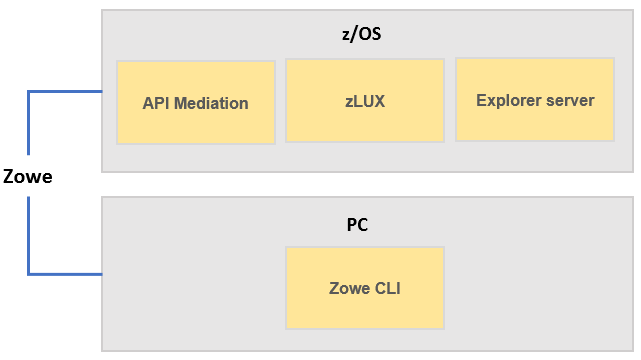
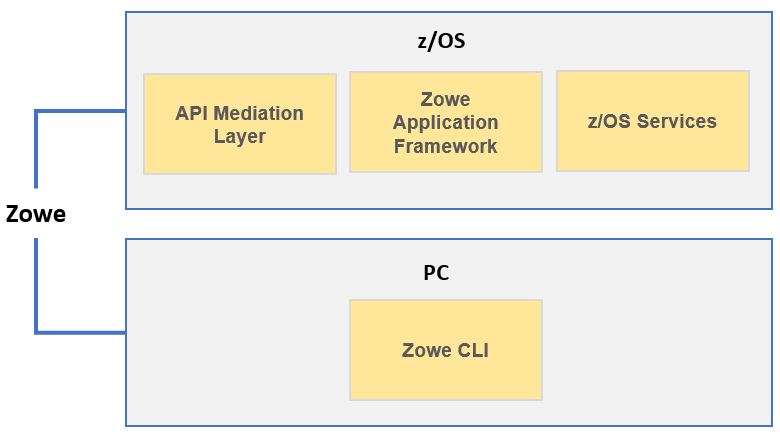
Edits for removing Liberty references

diff --git a/docs/.vuepress/config.js b/docs/.vuepress/config.js
@@ -28,7 +28,6 @@ const ALL_PAGES = [{
         text: 'Installing Zowe',
         items: [
           'user-guide/installandconfig.md',
-          'user-guide/installroadmap.md',
           'user-guide/systemrequirements.md',
           'user-guide/install-zos.md',
           'user-guide/cli-installcli.md',

diff --git a/docs/user-guide/install-zos.md b/docs/user-guide/install-zos.md
@@ -160,7 +160,7 @@ To install Zowe API Mediation Layer, Zowe Application Framework, and explorer se
 
 2. Review the `zowe-install.yaml` file which contains the following properties:
 
-    - `install:rootDir` is the directory that Zowe installs to create a Zowe runtime. The default directory is `~/zowe/v.r.m` where v is the Zowe version number, r is the release number and m the modification number,e.g. 1.0.0 or 1.2.11 . The user's home directory is the default value. This ensures that the user who performs the installation has permission to create the directories that are required for the installation. If the Zowe runtime will be maintained by multiple users, it is recommended to use another directory, such as `/var/zowe/v.r.m`.
+    - `install:rootDir` is the directory that Zowe installs to create a Zowe runtime. The default directory is `~/zowe/v.r.m` where *v* is the Zowe version number, *r* is the release number and *m* is the modification number,for example, 1.0.0 or 1.2.11 . The user's home directory is the default value. This ensures that the user who performs the installation has permission to create the directories that are required for the installation. If the Zowe runtime will be maintained by multiple users, it is recommended to use another directory, such as `/var/zowe/v.r.m`.
 
         You can run the installation process multiple times with different values in the `zowe-install.yaml` file to create separate installations of the Zowe runtime. Ensure that the directory where Zowe will be installed is empty. The install script exits if the directory is not empty and creates the directory if it does not exist.
 
@@ -313,7 +313,7 @@ To install Zowe API Mediation Layer, Zowe Application Framework, and explorer se
     The error occurs when the install script does not have execute permission. To add execute permission, issue the following command:
 
     ```
-    chmod u+x zowe-install.sh.
+    chmod u+x zowe-install.sh
     ```
    
     While the script is running it will echo its progress to the shell and you may be prompted for the location of Java, node, or z/OSMF is the script is unable to determine their location.
@@ -392,8 +392,8 @@ When the `zowe-install.sh` script runs, it performs a number of steps broken dow
 
     The first time the script is run if it has to locate any of the environment variables, the script will add lines to the current user's home directory `.profile` file to set the variables.  This ensures that the next time the same user runs the install script, the previous values will be used.
 
-<<TODO - JRW>>
-     **Note**: If you wish to set the environment variables for all users, add the lines to assign the variables and their values to the file `/etc/.profile`.  
+    <<TODO - JRW>>
+     **Note**: If you wish to set the environment variables for all users, add the lines to assign the variables and their values to the file `/etc/.profile`.
 
     If the environment variables for `ZOWE_ZOSMF_PATH`, `ZOWE_JAVA_HOME` are not set and the install script cannot determine a default location, the install script will prompt for their location. The install script will not continue unless valid locations are provided.  
 
@@ -453,7 +453,7 @@ When the `zowe-install.sh` script runs, it performs a number of steps broken dow
 
 ## Starting and stopping the Zowe runtime on z/OS
 
-Zowe has a number of runtime on z/OS: the z/OS Service microservice serves, the Zowe Application Server, and the Zowe API Mediation Layer microsercices. When you run the ZOWESVR PROC, all of these components start. The Zowe Application Server startup script also starts the zSS server, so starting the ZOWESVR PROC starts all the required servers. Stopping ZOWESVR PROC stops all of the servers that run as independent unix processes.
+Zowe has a number of runtime on z/OS: the z/OS Service microservice server, the Zowe Application Server, and the Zowe API Mediation Layer microservices. When you run the ZOWESVR PROC, all of these components start. The Zowe Application Server startup script also starts the zSS server, so starting the ZOWESVR PROC starts all the required servers. Stopping ZOWESVR PROC stops all of the servers that run as independent Unix processes.
 
 ### Starting the ZOWESVR PROC
 
@@ -539,8 +539,7 @@ The script writes its messages to your terminal window.  The results are marked 
 Follow the instructions in the following sections to verify that the components are installed correctly and are functional.
 
 - [Verifying Zowe Application Framework installation](#verifying-zowe-application-framework-installation)       
-- [Verifying explorer server installation](#verifying-explorer-server-installation)
-    - [Verifying the availability of explorer server REST APIs](#verifying-the-availability-of-explorer-server-rest-apis)  
+- [Verifying z/OS Services installation](#verifying-z-os-services-installationn) 
 - [Verifying API Mediation installation](#verifying-api-mediation-installation) 
 
 ### Verifying Zowe Application Framework installation
@@ -554,16 +553,18 @@ where:
 - _myHost_ is the host on which you installed the Zowe Application Server.
 - _httpPort_ is the port number that is assigned to _node.http.port_ in `zluxserver.json`.
 - _httpsPort_ is the port number that is assigned to _node.https.port_ in `zluxserver.json`.
+  
   For example, if the Zowe Application Server runs on host _myhost_ and the port number that is assigned to _node.http.port_ is 12345, you specify `https://myhost:12345/ZLUX/plugins/org.zowe.zlux.bootstrap/web/index.htm`.
 
 ### Verifying z/OS Services installation
 
-After the explorer server is installed and the ZOWESVR procedure is started, you can verify the installation from an internet browser by entering the following case-sensitive URL:
+After the ZOWESVR procedure is started, you can verify the installation of z/OS Services from an internet browser by entering the following case-sensitive URL:
 
-- _gatewayPort_ is the port number that is assigned to api:mediation:gatewayPort in `zowe-install.yaml`.
+```
+https://hostName:<_gatewayPort_>/api/v1/jobs?prefix=*
+```
 
-`https://hostName:<_gatewayPort_>/api/v1/jobs?prefix=*`
-
+where, _gatewayPort_ is the port number that is assigned to `api:mediation:gatewayPort` in `zowe-install.yaml`.
 
 ### Verifying API Mediation installation
 

diff --git a/docs/troubleshoot/troubleshootinstall.md b/docs/troubleshoot/troubleshootinstall.md
@@ -1,14 +1,16 @@
 # Troubleshooting the installation
 
-Review the following troubleshooting tips if you have problems with Zowe installation.
-
-## Troubleshooting installing Zowe runtime
-
-The following topics contain information that can help you troubleshoot problems when you encounter unexpected behavior installing Zowe runtime.
+The following topics contain information that can help you troubleshoot problems when you encounter unexpected behavior installing Zowe.
 
 ## Troubleshooting z/OSMF
 
--   If the z/OS Services are unavailable ensure that the z/OSMF REST API services are working.  Check the z/OSMF IZUSVR1 task output for errors and confirm that the z/OSMF RESTFILES services are started successfully. If no errors occur, you can see the following message in the IZUSVR1 job output:
+### z/OS Services are unavailable
+
+**Solution:**
+
+If the z/OS Services are unavailable, take the following corrective actions. 
+
+- Ensure that the z/OSMF REST API services are working. Check the z/OSMF IZUSVR1 task output for errors and confirm that the z/OSMF RESTFILES services are started successfully. If no errors occur, you can see the following message in the IZUSVR1 job output:
 
     ```
     CWWKZ0001I: Application IzuManagementFacilityRestFiles started in n.nnn seconds.
@@ -22,13 +24,13 @@ The following topics contain information that can help you troubleshoot problems
 
     where the *securezosmfport* is 443 by default. You can verify the port number by checking the *izu.https.port* variable assignment in the z/OSMF `bootstrap.properties` file.
 
-    If z/OSMF returns jobs correctly you can test whether it is able to returns files using
+    If z/OSMF returns jobs correctly, you can test whether it is able to returns files by using the following curl scripts:
 
     ```
     curl --user <username>:<password> -k -X GET --header 'Accept: application/json' --header 'X-CSRF-ZOSMF-HEADER: true' "https://<z/os host name>:<securezosmfport>/zosmf/restfiles/ds?dslevel=SYS1"
     ```
 
-    If the restfiles curl statement returns a TSO SERVLET EXCEPTION error check that the the z/OSMF installation step of creating a valid IZUFPROC procedure in your system PROCLIB has been completed. For more information, see the [z/OSMF Configuration Guide](https://www-01.ibm.com/servers/resourcelink/svc00100.nsf/pages/zOSV2R3sc278419?OpenDocument).
+    If the restfiles curl statement returns a TSO SERVLET EXCEPTION error, check that the the z/OSMF installation step of creating a valid IZUFPROC procedure in your system PROCLIB has been completed. For more information, see the [z/OSMF Configuration Guide](https://www-01.ibm.com/servers/resourcelink/svc00100.nsf/pages/zOSV2R3sc278419?OpenDocument).
 
     The IZUFPROC member resides in your system PROCLIB, which is similar to the following sample:
 
@@ -60,11 +62,7 @@ The following topics contain information that can help you troubleshoot problems
 
 -   Check your system console log for related error messages and respond to them.
 
-If the explorer server cannot connect to the z/OSMF server, check the following item:
-
-By default, the explorer server communicates with the z/OSMF server on the localhost address. If your z/OSMF server is on a different IP address to the explorer server, for example, if you are running z/OSMF with Dynamic Virtual IP Addressing (DVIPA), you can change this by adding a `ZOSMF_HOST` parameter to the `server.env` file. For example: `ZOSMF_HOST=winmvs27`.
-
-### Troubleshooting installing the Zowe Application Framework
+## Troubleshooting installing the Zowe Application Framework
 
 To help Zowe research any problems you might encounter, collect as much of the following information as possible and open an issue in GitHub with the collected information.
 

diff --git a/docs/user-guide/installandconfig.md b/docs/user-guide/installandconfig.md
@@ -1,7 +1,20 @@
 # Installing Zowe
 
-Zowe consists of four main components: the Zowe Application Framework (zLUX), the explorer server, API Mediation Layer, and Zowe CLI. You install the Zowe Application Framework, the explorer server, and API Mediation on z/OS and install Zowe CLI on your computer. The installations on z/OS and on a computer are independent processes.
+Zowe consists of four main components: the Zowe Application Framework (zLUX), z/OS Services, API Mediation Layer, and Zowe CLI. You install the Zowe Application Framework, z/OS Services, and API Mediation Layer on z/OS and install Zowe CLI on your computer. The installations on z/OS and on a computer are independent processes.
 
 ![Zowe installation overview](../images/common/zowe-install-location.png)
 
-To get started with installing Zowe, review the [Installation roadmap](installroadmap.md) topic.
+
+## Installation roadmap
+
+Installing Zowe involves several steps that you must complete in the appropriate sequence. Review the following installation roadmap that presents the task-flow for preparing your environment and installing and configuring Zowe before you begin the installation process.
+
+| Tasks | Description
+| --- | ---
+| 1. Prepare your environment to meet the installation requirements. | See [System requirements](systemrequirements.md).
+| 2. Allocate enough space for the installation. |  The installation process requires approximately 1 GB of available space. Once installed on z/OS, API Mediation Layer requires approximately 150MB of space, and the Zowe Application Framework requires approximately 50 MB of space before configuration. Zowe CLI requires approximately 200 MB of space on your computer.
+| 3. Install components of Zowe. | To install Zowe runtime on z/OS, see [Installing the Zowe runtime on z/OS](install-zos.md). To install Zowe CLI on a computer, see [Installing Zowe CLI](cli-installcli.md).
+| 4. Verify that Zowe is installed correctly. | To verify that the Zowe runtime is installed correctly, see [Verifying installation](install-zos.html#verifying-installation). To verify that Zowe CLI is installed correctly, see [Testing connection to z/OSMF](cli-installcli.html#testing-zowe-cli-connection-to-zosmf).
+| 5. Optional: Troubleshoot problems that occurred during installation. | See [Troubleshooting the installation](../troubleshoot/troubleshootinstall.md).
+
+To uninstall Zowe, see [Uninstalling Zowe](uninstall.md).

diff --git a/docs/getting-started/overview.md b/docs/getting-started/overview.md
@@ -44,13 +44,17 @@ The Zowe Application Framework consists of the following components:
 
 ## z/OS Services
 
-Zowe provides a z/OS® RESTful web service and deployment architecture for z/OS microservices.  Delivered with Zowe are core z/OS services
- - **z/OS Datasets services:**
-   get a list of jobs, get content from a job file output, submit job from a data set, and more...
- - **z/OS Jobs services:**
-    get a list of data sets, retrieve content from a member, create a dats set, and more ...
+Zowe provides a z/OS® RESTful web service and deployment architecture for z/OS microservices. Zowe contains the following  core z/OS services:
 
-The full list of capabilities of the RESTful APIs can be viewed from the API catalog that will display the Open API Specification for their capabilities.
+ - **z/OS Datasets services**
+
+   Get a list of jobs, get content from a job file output, submit job from a data set, and more.
+
+ - **z/OS Jobs services**
+
+    Get a list of data sets, retrieve content from a member, create a data set, and more.
+
+You can view the full list of capabilities of the RESTful APIs from the API catalog that displays the Open API Specification for their capabilities.
 
 - These APIs are described by the Open API Specification allowing them to be incorporated to any standard-based REST API developer tool or API management process.
 - These APIs can be exploited by off-platform applications with proper security controls.

diff --git a/docs/user-guide/uninstall.md b/docs/user-guide/uninstall.md
@@ -1,15 +1,15 @@
 # Uninstalling Zowe
 
-You can uninstall Zowe if you no longer need to use it. Follow these procedures to uninstall each Zowe component.Application Framework
+You can uninstall Zowe if you no longer need to use it. Follow these procedures to uninstall each Zowe component.
 
-- [Uninstalling  Zowe from z/OS](#uninstalling-zowe-zos)
-- [Uninstalling Zowe CLI](#uninstalling-zowe-cli)
+- [Uninstalling  Zowe from z/OS](#uninstalling-zowe-from-z-os)
+- [Uninstalling Zowe CLI from the desktop](#uninstalling-zowe-cli-from-the-desktop)
 
 ## Uninstalling Zowe from z/OS
 
 **Follow these steps on z/OS:**
 
-1.  Stop the Zowe started task which will stop all of its microservices using the following command:
+1.  Stop the Zowe started task which stops all of its microservices by using the following command:
 
     ```
     C ZOWESVR
@@ -96,11 +96,13 @@ The following steps describe how to list the profiles that you created, delete t
 5.  Uninstall Zowe CLI by issuing one of the following commands:
 
     - If you installed Zowe CLI from the package, issue the following command
+
         ```
         npm uninstall --global @brightside/core
         ```
 
     - If you installed Zowe CLI from the online registry, issue the following command:
+    
         ```
         npm uninstall --global brightside
         ```

diff --git a/docs/user-guide/usingapis.md b/docs/user-guide/usingapis.md
@@ -8,7 +8,7 @@ Zowe provides a range of REST APIs through a Swagger defined description, and a 
 
 The APIs are available on the API catalog available for you to try within a browser.  The API catalog links to the swagger documentation.
 
-https://youhost:apicatalogport/ui/v1/apicatalog/#/dashboard
+```https://youhost:apicatalogport/ui/v1/apicatalog/#/dashboard```
 
 From the catalog you will see z/OS Jobs services and z/OS Data Set services.  Selecting these will navigate to the swagger catalog that allows you to view and try out the APIs.
 
